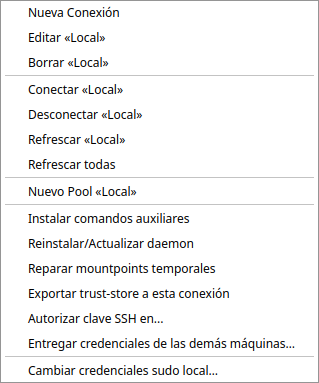
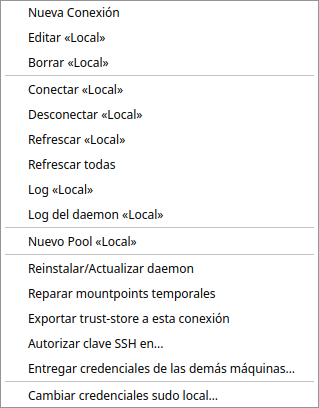
refactor(gui): drop the helper-install rows from the connection card
Package manager, helper install platform, assisted install and the
installable / unsupported command lists described «Install helper
commands», which is gone. The help captures are regenerated with the
current menu and card.

Changed region(s): [[0.0282, 0.1436, 0.9875, 1.0], [0.0846, 0.0, 0.3668, 0.1149]]

diff --git a/src/native/mainwindow_dataset_tree.cpp b/src/native/mainwindow_dataset_tree.cpp
@@ -2397,12 +2397,6 @@ void MainWindow::ensureConnectionRootAuxNodes(QTreeWidget* tree, QTreeWidgetItem
         }
     };
 
-    auto listOrNone = [&](const QStringList& values) -> QString {
-        return values.isEmpty() ? trk(QStringLiteral("t_none_001"),
-                                      QStringLiteral("(ninguno)"),
-                                      QStringLiteral("(none)"))
-                                : values.join(QStringLiteral(", "));
-    };
     const QString statusText = st.status.trimmed().isEmpty() ? QStringLiteral("-") : st.status.trimmed();
     const QString colorReason = connectionStateColorReason(connIdx).trimmed();
     const QString osText = st.osLine.trimmed().isEmpty() ? QStringLiteral("-") : st.osLine.trimmed();
@@ -2414,58 +2408,16 @@ void MainWindow::ensureConnectionRootAuxNodes(QTreeWidget* tree, QTreeWidgetItem
                                        ? QStringLiteral("-")
                                        : QStringLiteral("OpenZFS %1").arg(st.zfsVersion.trimmed()))
                                 : st.zfsVersionFull.trimmed();
-    const QString packageMgrText = st.helperPackageManagerLabel.trimmed().isEmpty()
-                                       ? QStringLiteral("-")
-                                       : QStringLiteral("%1%2")
-                                             .arg(st.helperPackageManagerLabel.trimmed(),
-                                                  st.helperPackageManagerDetected
-                                                      ? trk(QStringLiteral("t_detected_001"),
-                                                            QStringLiteral(" (detectado)"),
-                                                            QStringLiteral(" (detected)"))
-                                                      : trk(QStringLiteral("t_not_detected_001"),
-                                                            QStringLiteral(" (no detectado)"),
-                                                            QStringLiteral(" (not detected)")));
     QVector<QPair<QString, QString>> infoProps = {
-        {trk(QStringLiteral("t_status_001"),
-             QStringLiteral("Estado"),
-             QStringLiteral("Status")),
+        {trk(QStringLiteral("t_status_001"), QStringLiteral("Estado"), QStringLiteral("Status")),
          statusText},
-        {trk(QStringLiteral("t_os_001"),
-             QStringLiteral("Sistema operativo"),
+        {trk(QStringLiteral("t_os_001"), QStringLiteral("Sistema operativo"),
              QStringLiteral("Operating system")),
          osText},
-        {trk(QStringLiteral("t_conn_method_001"),
-             QStringLiteral("Método de conexión"),
+        {trk(QStringLiteral("t_conn_method_001"), QStringLiteral("Método de conexión"),
              QStringLiteral("Connection method")),
          methodText},
-        {QStringLiteral("OpenZFS"), zfsText},
-        {trk(QStringLiteral("t_helper_platform_001"),
-             QStringLiteral("Plataforma instalación auxiliar"),
-             QStringLiteral("Helper install platform")),
-         st.helperPlatformLabel.trimmed().isEmpty() ? QStringLiteral("-") : st.helperPlatformLabel.trimmed()},
-        {trk(QStringLiteral("t_package_manager_001"),
-             QStringLiteral("Gestor de paquetes"),
-             QStringLiteral("Package manager")),
-         packageMgrText},
-        {trk(QStringLiteral("t_assisted_install_001"),
-             QStringLiteral("Instalación asistida"),
-             QStringLiteral("Assisted install")),
-         st.helperInstallSupported
-             ? trk(QStringLiteral("t_yes_001"),
-                   QStringLiteral("sí"),
-                   QStringLiteral("yes"))
-             : trk(QStringLiteral("t_no_001"),
-                   QStringLiteral("no"),
-                   QStringLiteral("no"))},
-        {trk(QStringLiteral("t_installable_commands_001"),
-             QStringLiteral("Comandos instalables desde ZFSMgr"),
-             QStringLiteral("Commands installable from ZFSMgr")),
-         listOrNone(st.helperInstallableCommands)},
-        {trk(QStringLiteral("t_unsupported_installer_commands_001"),
-             QStringLiteral("Comandos no soportados por instalador"),
-             QStringLiteral("Commands not supported by installer")),
-         listOrNone(st.helperUnsupportedCommands)}
-    };
+        {QStringLiteral("OpenZFS"), zfsText}};
     if (!colorReason.isEmpty()) {
         infoProps.insert(1,
                          {trk(QStringLiteral("t_color_reason_001"),

diff --git a/src/native/mainwindow_pane_detail.cpp b/src/native/mainwindow_pane_detail.cpp
@@ -543,12 +543,6 @@ QVector<QPair<QString, QString>> MainWindow::connectionInfoRows(int connIdx) con
         return rows;
     }
     const ConnectionRuntimeState& st = m_conns.states.at(connIdx);
-    const auto listOrNone = [this](const QStringList& values) -> QString {
-        return values.isEmpty() ? trk(QStringLiteral("t_none_001"),
-                                      QStringLiteral("(ninguno)"),
-                                      QStringLiteral("(none)"))
-                                : values.join(QStringLiteral(", "));
-    };
     const QString dash = QStringLiteral("-");
     rows.push_back({trk(QStringLiteral("t_status_001"),
                         QStringLiteral("Estado"),
@@ -577,39 +571,18 @@ QVector<QPair<QString, QString>> MainWindow::connectionInfoRows(int connIdx) con
                                ? dash
                                : QStringLiteral("OpenZFS %1").arg(st.zfsVersion.trimmed()))
                         : st.zfsVersionFull.trimmed()});
-    rows.push_back({trk(QStringLiteral("t_conn_agent_001"),
-                        QStringLiteral("Daemon"),
-                        QStringLiteral("Daemon")),
-                    !st.daemonInstalled
-                        ? trk(QStringLiteral("t_conn_agent_not_installed_001"),
-                              QStringLiteral("no instalado"),
-                              QStringLiteral("not installed"))
-                        : QStringLiteral("%1 | %2")
-                              .arg(st.daemonVersion.trimmed().isEmpty()
-                                       ? dash
-                                       : st.daemonVersion.trimmed(),
-                                   st.daemonActive
-                                       ? trk(QStringLiteral("t_conn_agent_running_001"),
-                                             QStringLiteral("en marcha"),
-                                             QStringLiteral("running"))
-                                       : trk(QStringLiteral("t_conn_agent_stopped_001"),
-                                             QStringLiteral("parado"),
-                                             QStringLiteral("stopped")))});
-    rows.push_back({trk(QStringLiteral("t_helper_platform_001"),
-                        QStringLiteral("Plataforma instalación auxiliar"),
-                        QStringLiteral("Helper install platform")),
-                    st.helperPlatformLabel.trimmed().isEmpty() ? dash
-                                                               : st.helperPlatformLabel.trimmed()});
-    rows.push_back({trk(QStringLiteral("t_package_manager_001"),
-                        QStringLiteral("Gestor de paquetes"),
-                        QStringLiteral("Package manager")),
-                    st.helperPackageManagerLabel.trimmed().isEmpty()
-                        ? dash
-                        : st.helperPackageManagerLabel.trimmed()});
-    rows.push_back({trk(QStringLiteral("t_installable_commands_001"),
-                        QStringLiteral("Comandos instalables desde ZFSMgr"),
-                        QStringLiteral("Commands installable from ZFSMgr")),
-                    listOrNone(st.helperInstallableCommands)});
+    rows.push_back(
+        {trk(QStringLiteral("t_conn_agent_001"), QStringLiteral("Daemon"),
+             QStringLiteral("Daemon")),
+         !st.daemonInstalled
+             ? trk(QStringLiteral("t_conn_agent_not_installed_001"), QStringLiteral("no instalado"),
+                   QStringLiteral("not installed"))
+             : QStringLiteral("%1 | %2").arg(
+                   st.daemonVersion.trimmed().isEmpty() ? dash : st.daemonVersion.trimmed(),
+                   st.daemonActive ? trk(QStringLiteral("t_conn_agent_running_001"),
+                                         QStringLiteral("en marcha"), QStringLiteral("running"))
+                                   : trk(QStringLiteral("t_conn_agent_stopped_001"),
+                                         QStringLiteral("parado"), QStringLiteral("stopped")))});
     return rows;
 }
 

diff --git a/src/native/mainwindow_connections.cpp b/src/native/mainwindow_connections.cpp
@@ -344,26 +344,6 @@ QString MainWindow::connectionStateTooltipHtml(int connIdx) const {
                          .arg(unavailable.join(QStringLiteral("; ")));
         }
     }
-    lines << QStringLiteral("Plataforma instalación auxiliar: %1")
-                 .arg(st.helperPlatformLabel.trimmed().isEmpty() ? QStringLiteral("-")
-                                                                 : st.helperPlatformLabel.trimmed());
-    lines << QStringLiteral("Gestor de paquetes: %1")
-                 .arg(st.helperPackageManagerLabel.trimmed().isEmpty()
-                          ? QStringLiteral("-")
-                          : QStringLiteral("%1%2")
-                                .arg(st.helperPackageManagerLabel.trimmed(),
-                                     st.helperPackageManagerDetected ? QStringLiteral(" (detectado)")
-                                                                     : QStringLiteral(" (no detectado)")));
-    lines << QStringLiteral("Instalación asistida: %1")
-                 .arg(st.helperInstallSupported ? QStringLiteral("sí") : QStringLiteral("no"));
-    lines << QStringLiteral("Comandos instalables desde ZFSMgr: %1")
-                 .arg(st.helperInstallableCommands.isEmpty()
-                          ? QStringLiteral("(ninguno)")
-                          : st.helperInstallableCommands.join(QStringLiteral(", ")));
-    lines << QStringLiteral("Comandos no soportados por instalador: %1")
-                 .arg(st.helperUnsupportedCommands.isEmpty()
-                          ? QStringLiteral("(ninguno)")
-                          : st.helperUnsupportedCommands.join(QStringLiteral(", ")));
     if (!st.helperInstallReason.trimmed().isEmpty()) {
         lines << QStringLiteral("Motivo instalación asistida: %1").arg(st.helperInstallReason.trimmed());
     }
